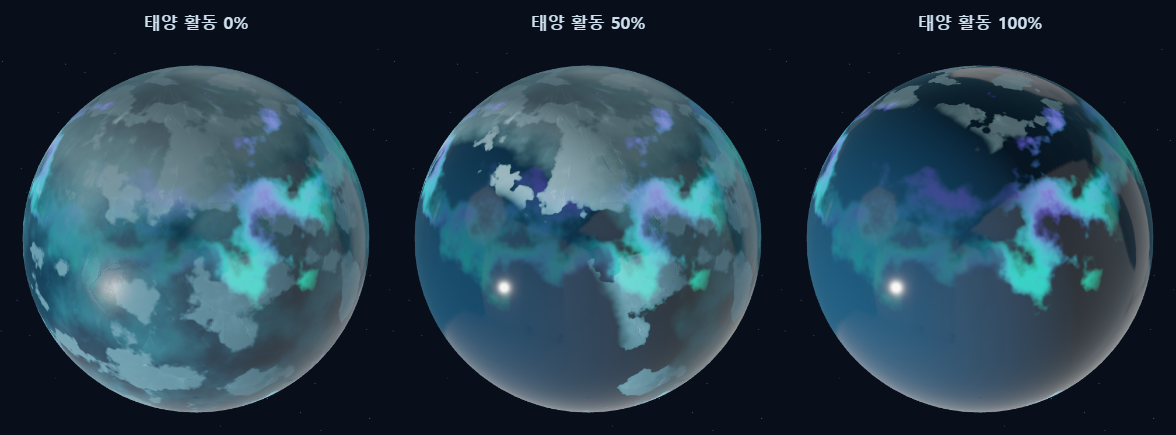
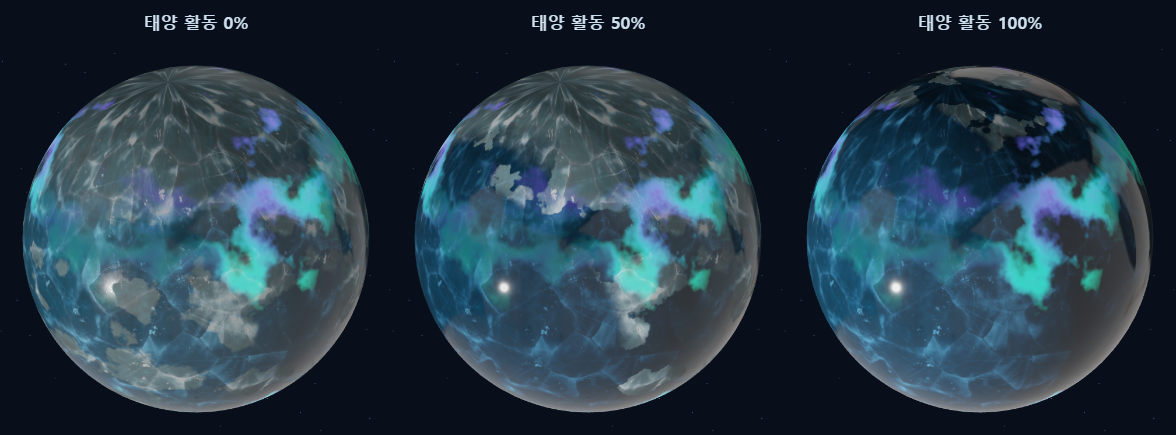
6주차: 얼음행성 PBR 재질에 텍스처 맵 적용 및 출처 기록

diff --git a/week6/week06-material-starter/task2.js b/week6/week06-material-starter/task2.js
@@ -133,24 +133,17 @@ void main() {
     vec2 uv = vUV * vec2(4.0, 2.0);
     vec3 iceMap = srgbToLinear(texture(uColor, uv).rgb);
     vec3 arm = texture(uARM, uv).rgb;
-    float grain = dot(iceMap, vec3(0.2126, 0.7152, 0.0722));
-    // Week 3이 화면에 출력하던 색을 먼저 조합한 뒤 PBR용 선형 색으로 변환한다.
-    vec3 ice = mix(vec3(0.035, 0.22, 0.34), vec3(0.20, 0.60, 0.72),
-                   smoothstep(0.20, 0.58, terrain));
-    float snow = smoothstep(0.58, 0.82, terrain);
-    ice = mix(ice, vec3(0.82, 0.94, 0.96), snow);
-    ice = mix(ice, vec3(0.52, 0.85, 0.99), 0.92 * floes);
+    // 텍스처의 RGB 결은 유지하고, 빙판·극관 마스크는 재질의 색 배율과 거칠기만 바꾼다.
     float cap = smoothstep(0.67, 0.90, abs(local.y) + 0.12 * terrain);
-    ice = mix(ice, vec3(0.88, 0.98, 1.0), 0.55 * cap);
-    vec3 base = srgbToLinear(ice) * (0.81 + 0.90 * grain);
-    float rough = clamp(0.26 + 0.66 * arm.g + 0.26 * max(snow, cap), 0.045, 1.0);
-    float metal = 0.0; // 얼음과 염수는 비금속
-    // 날이 따뜻해지면 빙판 가장자리에 얕은 청록 물이 고이고 깊은 곳은 남색이 된다.
-    vec3 water = mix(vec3(0.014, 0.26, 0.30), vec3(0.003, 0.028, 0.065), melt);
-    base = mix(base, water, melt);
-    rough = mix(rough, 0.10, melt);
-    base = mix(base, vec3(0.016, 0.46, 0.43), fracture);
-    rough = mix(rough, 0.21, fracture); // 겹치면 노출된 염수가 가장 위에 있다.
+    float frost = max(max(floes, cap), smoothstep(0.58, 0.82, terrain));
+    vec3 tint = mix(vec3(0.38, 1.25, 2.15), vec3(2.8, 3.1, 3.4), frost);
+    tint = mix(tint, vec3(0.06, 0.30, 0.63), melt);
+    tint = mix(tint, vec3(0.15, 2.0, 1.6), fracture);
+    vec3 base = clamp(iceMap * tint, 0.0, 1.0);
+    float rough = mix(arm.g, 0.85, 0.15 + 0.60 * frost);
+    rough = mix(rough, 0.07 + 0.10 * arm.g, melt);
+    rough = clamp(mix(rough, 0.12 + 0.18 * arm.g, fracture), 0.045, 1.0);
+    float metal = arm.b * (1.0 - max(melt, fracture));
 
     // 실습 1의 미분 기반 TBN. 녹은 물과 염수에서는 미세 요철도 잦아든다.
     vec3 dp1 = dFdx(vP), dp2 = dFdy(vP);
@@ -165,15 +158,14 @@ void main() {
     float power = (2.2 + 8.0 * uSolar) * falloff;
     vec3 color = directPBR(N, V, L, base, rough, metal, power);
     float ao = arm.r;
-    color += 0.22 * ao * base;
     vec3 reflected = reflect(-V, N);
     vec2 envUV = vec2(atan(reflected.z, reflected.x)/(2.0*PI)+0.5,
                       asin(clamp(reflected.y,-1.0,1.0))/PI+0.5);
     vec3 env = srgbToLinear(textureLod(uEnv, envUV, 1.5 + rough*5.5).rgb);
-    float fresnel = mix(0.04, max(1.0 - rough, 0.04), pow(1.0 - max(dot(N,V), 0.0), 5.0));
-    color += ao * env * fresnel;
-    float rim = pow(1.0 - max(dot(normalize(vN), V), 0.0), 3.0);
-    color += vec3(0.022, 0.075, 0.11) * rim + auroraLight(local);
+    vec3 F0 = mix(vec3(0.04), base, metal);
+    vec3 fresnel = mix(F0, max(vec3(1.0 - rough), F0), pow(1.0 - max(dot(N,V), 0.0), 5.0));
+    color += ao * (0.22 * (1.0 - fresnel) * (1.0 - metal) * base + env * fresnel);
+    color += auroraLight(local);
     outColor = vec4(linearToSrgb(color/(1.0+color)), 1.0);
 }`;
 

diff --git a/week6/week6.md b/week6/week6.md
@@ -131,7 +131,7 @@ vec3 kd = (1.0-F)*(1.0-metal);
 
 ### 빙각의 궤도
 
-단색 태양은 타원의 한 초점에 고정되어 있고, 얼음행성 **빙각**이 그 주위를 공전하며 자전한다. 3주차에 의도한 풍경은 차가운 바다 위를 떠다니는 빙하와 간헐적으로 나타나는 오로라였다. 3주차의 푸른 얼음·눈·극관 색과 높이 잡음을 다시 사용하고, PBR 조명 아래에서도 밝은 빙판의 윤곽이 드러나도록 했다. [3주차 설계와 원래 캡처](../week3/week3.md#행성-1) · [실행 파일](week06-material-starter/task2.html) · [공전 위치 계산](week06-material-starter/task2.js#L202)
+단색 태양은 타원의 한 초점에 고정되어 있고, 얼음행성 **빙각**이 그 주위를 공전하며 자전한다. 3주차에 의도한 풍경은 차가운 바다 위를 떠다니는 빙하와 간헐적으로 나타나는 오로라였다. 3주차의 푸른 얼음·눈·극관 색과 높이 잡음을 다시 사용하고, PBR 조명 아래에서도 밝은 빙판의 윤곽이 드러나도록 했다. [3주차 설계와 원래 캡처](../week3/week3.md#행성-1) · [실행 파일](week06-material-starter/task2.html) · [공전 위치 계산](week06-material-starter/task2.js#L194)
 
 ![고정된 태양과 타원 궤도를 도는 빙각](images/task2-orbit.png)
 
@@ -147,7 +147,7 @@ vec3 kd = (1.0-F)*(1.0-metal);
 
 ![같은 지역의 원일점과 근일점 표면 비교](images/task2-distance.png)
 
-해빙에는 두 천체의 중심 거리 `r`을 사용한다. `1/r²`을 원일점 0, 근일점 1로 정규화한 뒤 제곱근을 취해 공전 중간에도 변화가 보이게 했다. 표면별로 일조 방향, 지형 높이, 위도, 빙판 두께를 반영해 녹기 시작하는 문턱을 다르게 둔다. 아래 확대 화면에서 원반 내부를 표본으로 삼아 해빙 마스크가 절반 이상 켜진 픽셀을 세면, 원일점(거리 4.93)은 약 **2%**, 근일점(거리 1.97)은 약 **72%**다. 이 비율은 캡처에 보이는 면의 값이다. [거리 계산](week06-material-starter/task2.js#L312) · [해빙 마스크](week06-material-starter/task2.js#L84)
+해빙에는 두 천체의 중심 거리 `r`을 사용한다. `1/r²`을 원일점 0, 근일점 1로 정규화한 뒤 제곱근을 취해 공전 중간에도 변화가 보이게 했다. 표면별로 일조 방향, 지형 높이, 위도, 빙판 두께를 반영해 녹기 시작하는 문턱을 다르게 둔다. 아래 확대 화면에서 원반 내부를 표본으로 삼아 해빙 마스크가 절반 이상 켜진 픽셀을 세면, 원일점(거리 4.93)은 약 **2%**, 근일점(거리 1.97)은 약 **72%**다. 이 비율은 캡처에 보이는 면의 값이다. [거리 계산](week06-material-starter/task2.js#L304) · [해빙 마스크](week06-material-starter/task2.js#L84)
 
 ![원일점과 근일점에서 흰 영역이 넓어지는 해빙 마스크](images/task2-distance-mask.png)
 
@@ -155,8 +155,8 @@ vec3 kd = (1.0-F)*(1.0-metal);
 
 | 조건 | 마스크와 재질 변화 |
 | --- | --- |
-| 태양 활동 | 활동을 높이면 태양을 향한 면과 낮은 빙판부터 녹는다. 물이 깊어지면서 청록색에서 남색으로 바뀌고 roughness는 0.10에 가까워진다. 태양의 표시 밝기와 직접광 세기도 함께 변한다. [해빙 규칙](week06-material-starter/task2.js#L84) |
-| 빙각 내부 압력 | 압력이 오르면 로컬 좌표에서 계산한 두 방향의 단층이 벌어져 청록색 염수가 드러난다. 겹치는 곳은 염수의 색과 roughness 0.21을 마지막에 적용한다. [균열 규칙](week06-material-starter/task2.js#L106) · [재질 혼합](week06-material-starter/task2.js#L149) |
+| 태양 활동 | 활동을 높이면 태양을 향한 면과 낮은 빙판부터 녹는다. 물이 깊어지면서 청록색에서 남색으로 바뀌고 물의 roughness는 맵의 G값에 따라 0.07~0.17이 된다. 태양의 표시 밝기와 직접광 세기도 함께 변한다. [해빙 규칙](week06-material-starter/task2.js#L84) |
+| 빙각 내부 압력 | 압력이 오르면 로컬 좌표에서 계산한 두 방향의 단층이 벌어져 청록색 염수가 드러난다. 겹치는 곳은 염수의 색과 roughness 0.12~0.30을 마지막에 적용한다. [균열 규칙](week06-material-starter/task2.js#L106) · [재질 혼합](week06-material-starter/task2.js#L139) |
 
 **태양 활동 0·50·100%**. 근일점에서 내부 압력을 0%로 고정했다. 단계가 올라갈수록 물이 드러나는 영역이 늘고, 같은 지점의 얼음결이 사라지면서 반사점이 좁아진다.
 
@@ -184,4 +184,11 @@ vec3 kd = (1.0-F)*(1.0-metal);
 
 ### 재질 맵 출처
 
-빙판에는 ambientCG의 **Ice 003** 1K 세트를 사용했다. Color 맵은 sRGB에서 선형 색으로 바꾼 후 밝기 무늬만 사용해 3주차 색을 살렸다. NormalGL은 얼음의 가는 요철에 사용하고 녹은 물에서는 강도를 낮춘다. Roughness는 ARM의 G에 넣었다. 원본에 AO 맵이 없어 R은 1, 비금속인 얼음의 B는 0으로 채웠다. 환경 반사는 기존 Poly Haven **Studio Small 09**의 LDR 이미지를 사용한다. 두 에셋은 CC0이다. [Ice 003](https://ambientcg.com/view?id=Ice003) · [ambientCG 라이선스](https://docs.ambientcg.com/license/) · [Studio Small 09](https://polyhaven.com/a/studio_small_09) · [파일별 출처](week06-material-starter/assets/week06/sources.json)
+| 맵 | 프로젝트 파일 | 원본과 적용 방식 | 출처 |
+| --- | --- | --- | --- |
+| Base Color | `ice003_color.jpg` | `Ice003_1K-JPG_Color.jpg`를 파일명만 바꿔 사용했다. RGB를 선형 색으로 변환해 빙판의 기본색에 적용한다. | [ambientCG · Ice 003](https://ambientcg.com/view?id=Ice003) |
+| Normal | `ice003_nor_gl.jpg` | `Ice003_1K-JPG_NormalGL.jpg`를 파일명만 바꿔 사용했다. OpenGL 접선 공간 법선으로 얼음의 미세한 요철을 표현한다. | [ambientCG · Ice 003](https://ambientcg.com/view?id=Ice003) |
+| ARM | `ice003_arm.png` | 프로젝트에서 채널을 합성했다. G에는 원본 `Ice003_1K-JPG_Roughness.jpg`를 넣었다. 원본에 AO 맵이 없어 R은 255로, 비금속인 얼음의 B는 0으로 채웠다. | [ambientCG · Ice 003 1K 원본 ZIP](https://ambientcg.com/get?file=Ice003_1K-JPG.zip) |
+| 환경 반사 | `studio_small_09_tonemapped.jpg` | `studio_small_09.jpg` 톤 매핑 미리보기를 축소한 실습 제공 파일을 사용했다. | [Poly Haven · Studio Small 09](https://polyhaven.com/a/studio_small_09) |
+
+네 맵의 원본 에셋은 모두 **CC0 1.0**으로 공개되어 있다. [ambientCG 라이선스](https://docs.ambientcg.com/license/) · [Poly Haven 라이선스](https://polyhaven.com/license) · [파일별 원본 다운로드 주소](week06-material-starter/assets/week06/sources.json)
